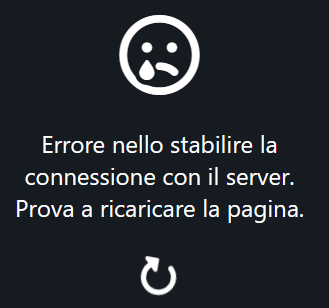
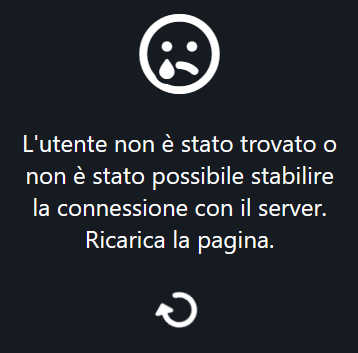
update readme, add token API in CH_fetch

diff --git a/src/components/UserTab/UserTab.jsx b/src/components/UserTab/UserTab.jsx
@@ -17,7 +17,6 @@ const UserTab = () => {
         e.preventDefault()
         setUser(user)
         refetch()
-        
     }
 
     useEffect(() => {
@@ -26,7 +25,7 @@ const UserTab = () => {
    
     const urlAPI = `https://api.github.com/users/${user}`
     const urlAPIrepo = `https://github.com/${user}?tab=repositories`
-    const {data, error, loading, refetch} = CH_fetch(urlAPI)
+    const {data, error, serverError, loading, refetch} = CH_fetch(urlAPI)
 
     if(error) return <Error />
     if(loading) return `Loading...`;
@@ -37,12 +36,13 @@ const UserTab = () => {
     let joinedDate = data?.created_at.substring(0, 10)
     joinedDate = joinedDate?.split("-").reverse().join("-");
 
+
   return (
     
     <section className='container_UserTab'>
-        <SearchBar  inputSubmitHandler={inputSubmitHandler} inputChangeHandler={inputChangeHandler} />
+        <SearchBar inputSubmitHandler={inputSubmitHandler} inputChangeHandler={inputChangeHandler} />
  
-        <div className='wrapperUser'>
+        <div className={error ? 'wrapperUser hidden' : 'wrapperUser show'}>
             <div className="infoBox_primary">
                 <img src={data?.avatar_url} alt={data?.name} />
                 <div className="subInfo_primary">

diff --git a/src/utils/CH_fetch/CH_fetch.jsx b/src/utils/CH_fetch/CH_fetch.jsx
@@ -1,20 +1,23 @@
 import {useState, useEffect} from "react"
 import axios from "axios"
-import Error from "../Error/Error"
 
 const CH_fetch = (urlFetch) => {
 
     const [data, setData] = useState(null)
     const [loading, setLoading] = useState(null)
     const [error, setError] = useState(false)
+    const [errorServer, setErrorServer] = useState(false)
+
+    const token = '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';
+    const headers = { 'Authorization': `token ${token}` };
 
     const fetchData = async() => {
         try{
-            const response = await axios(urlFetch)
+            const response = await axios(urlFetch, {headers})
             setData(response.data)
         }
         catch(error){
-            setError(error)
+                setError(error);
         }
         finally{
             setLoading(false)

diff --git a/src/components/UserTab/UserTab.scss b/src/components/UserTab/UserTab.scss
@@ -4,10 +4,20 @@ a{
     width: fit-content;
 }
 
+.show{
+    display: flex;
+    justify-content: center;
+}
+
+.hidden{
+    display: none;
+}
+
 .container_UserTab{
     display: flex;
     flex-direction: column;
     gap: 2rem;
+    color: white;
 
     .wrapperUser{
         width: 85%;
@@ -15,7 +25,6 @@ a{
         border-radius: 0.5rem;
         box-shadow: 0 0 5px white;
         padding: 1rem;
-        display: flex;
         flex-direction: column;
         gap: 1.5rem;
 

diff --git a/src/utils/Error/Error.scss b/src/utils/Error/Error.scss
@@ -36,3 +36,35 @@
           }
     }
 }
+
+@media screen and (min-width: 600px) {
+
+  .error{
+    width: 85%;
+  }
+  
+}
+
+@media screen and (min-width: 768px) {
+
+  .error{
+    width: 70%;
+  }
+  
+}
+
+@media screen and (min-width: 900px) {
+
+  .error{
+    width: 45%;
+  }
+  
+}
+
+@media screen and (min-width: 1200px) {
+
+  .error{
+    width: 35%;
+  }
+  
+}

diff --git a/src/index.js b/src/index.js
@@ -4,6 +4,7 @@ import './index.scss';
 import App from './App';
 
 const root = ReactDOM.createRoot(document.getElementById('root'));
+
 root.render(
     <App />
 );

diff --git a/README.md b/README.md
@@ -23,7 +23,7 @@ Creare un'applicazione che all'input di un username, appartente ad un utente reg
 <img src="./img_Footer.png">
 
 <h4> Atoms </h4>
-<li> Error --> Utilizzato per rimandare un messaggio a display per il non corretto funzionamento dell'API </li>
+<li> Error --> Utilizzato per rimandare un messaggio a display per il non corretto funzionamento dell'API o dell'utente non trovato</li>
 <br>
 <img src="./img_Error.png">
 
